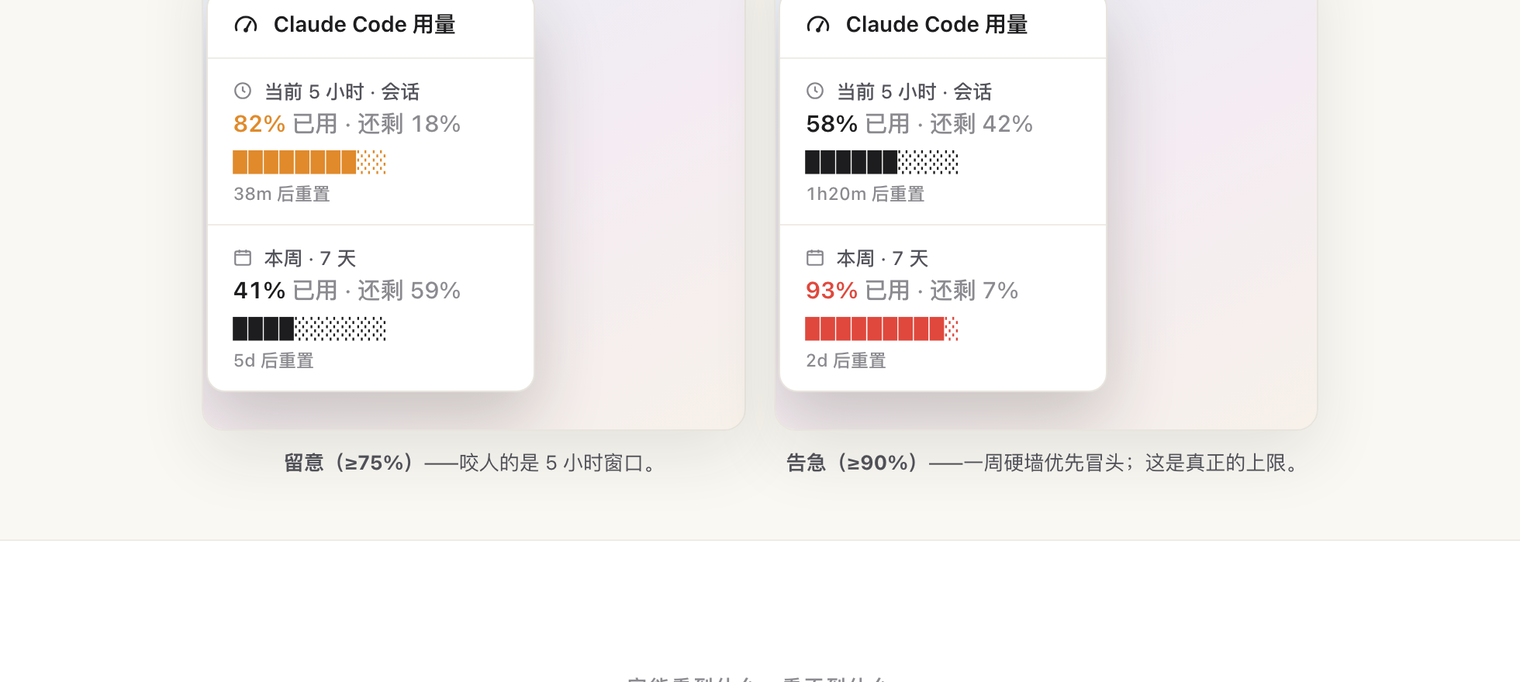
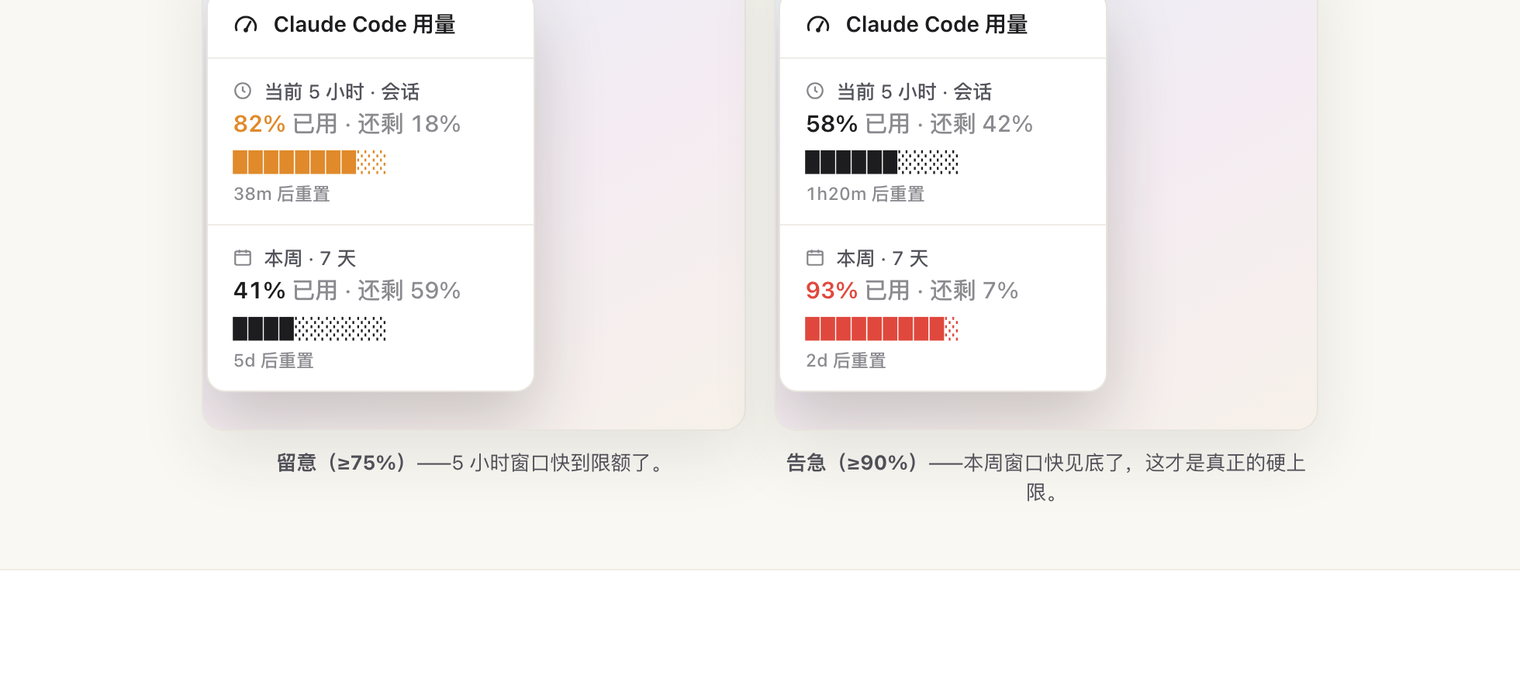
site: plainer state-scene captions (drop the convoluted phrasing)
'咬人的是 5 小时窗口' → '5 小时窗口快到限额了'; '一周硬墙优先冒头；这是真正的上限'
→ '本周窗口快见底了，这才是真正的硬上限'. Regenerate states.png.

diff --git a/site/index.html b/site/index.html
@@ -413,7 +413,7 @@
             </div>
             <div class="mini-stage"></div>
           </div>
-          <p class="scene-cap"><span class="en"><b>Heads up (≥75%)</b> — the 5-hour window is the one biting.</span><span class="zh"><b>留意（≥75%）</b>——咬人的是 5 小时窗口。</span></p>
+          <p class="scene-cap"><span class="en"><b>Heads up (≥75%)</b> — the 5-hour window is running low.</span><span class="zh"><b>留意（≥75%）</b>——5 小时窗口快到限额了。</span></p>
         </div>
 
         <div>
@@ -444,7 +444,7 @@
             </div>
             <div class="mini-stage"></div>
           </div>
-          <p class="scene-cap"><span class="en"><b>Critical (≥90%)</b> — the weekly wall preempts; it's the hard limit.</span><span class="zh"><b>告急（≥90%）</b>——一周硬墙优先冒头；这是真正的上限。</span></p>
+          <p class="scene-cap"><span class="en"><b>Critical (≥90%)</b> — the weekly window is nearly spent, and it's your hard limit.</span><span class="zh"><b>告急（≥90%）</b>——本周窗口快见底了，这才是真正的硬上限。</span></p>
         </div>
 
       </div>